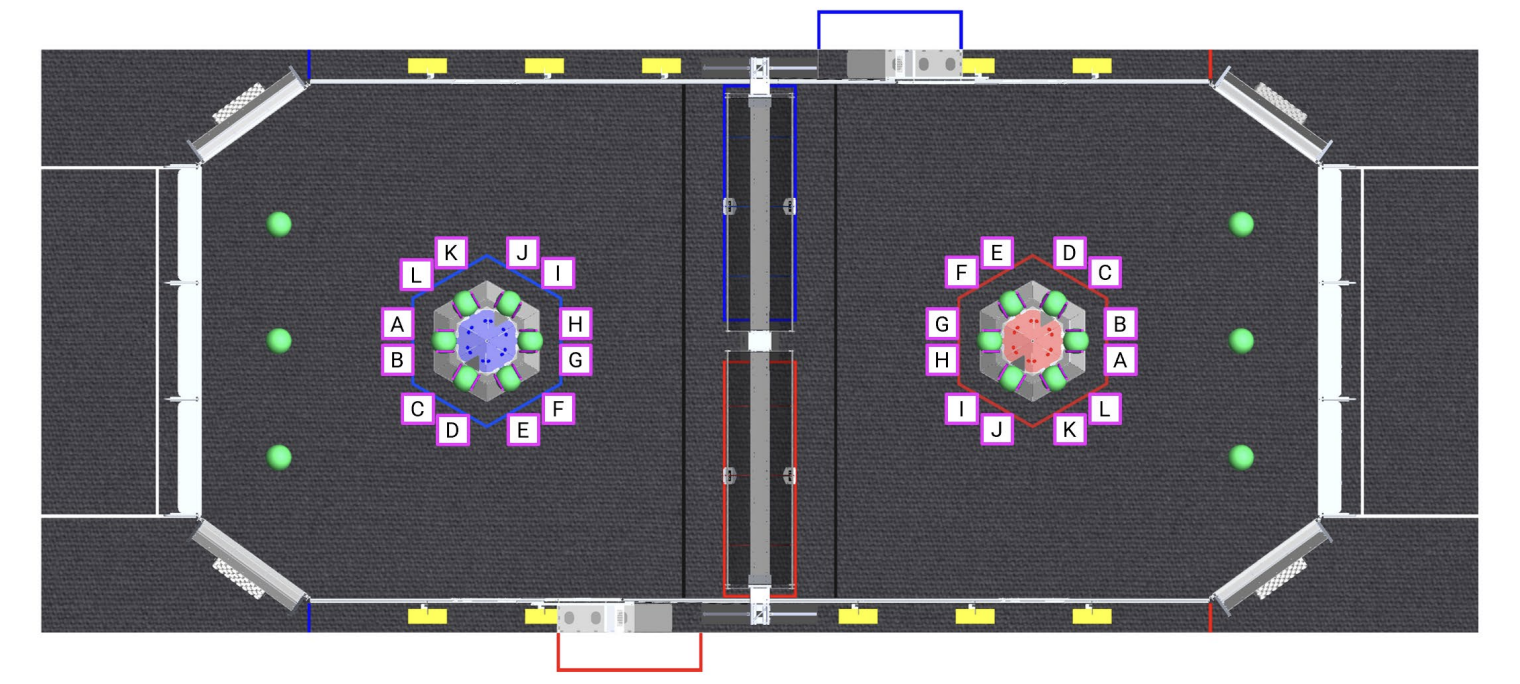
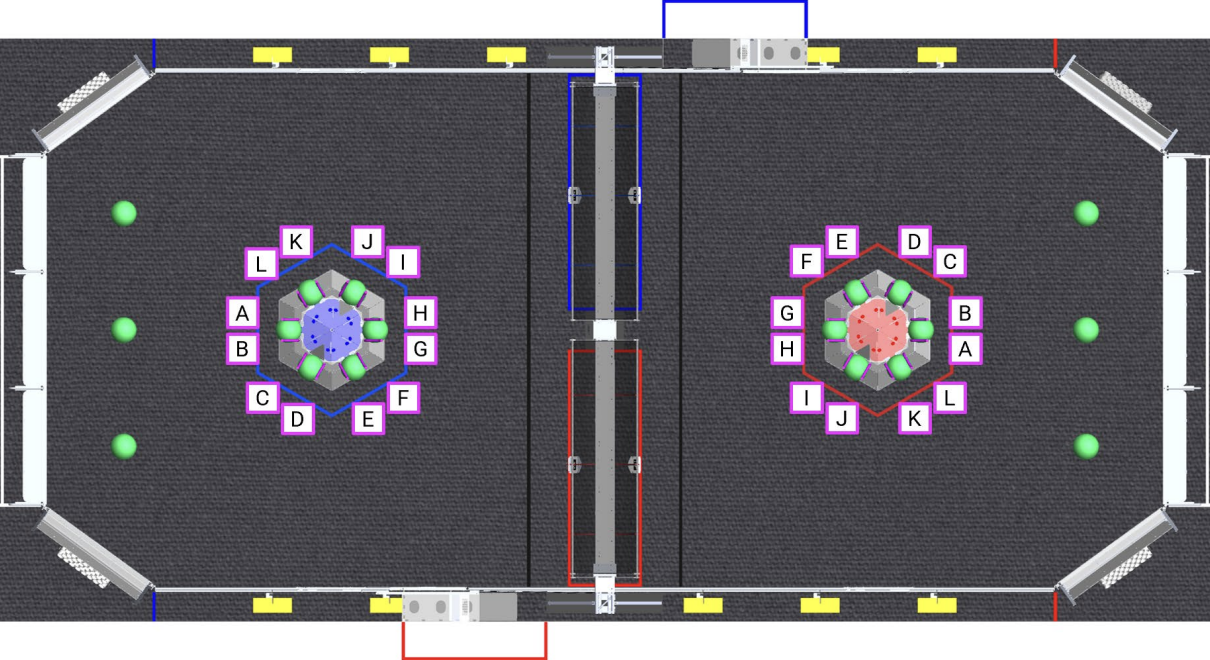
feat(assets): add gameField image

diff --git a/src/app/index.tsx b/src/app/index.tsx
@@ -1,14 +1,30 @@
 import { Link } from "expo-router";
 import React from "react";
-import { Text, View } from "react-native";
-import { useSafeAreaInsets } from "react-native-safe-area-context";
+import { Text, View , TouchableWithoutFeedback, StyleSheet, SafeAreaView, Image} from "react-native";
+
+interface TouchAreaProps {
+  imageSource: '../assets/gameField'
+  onTouch: (x:number, y:number) => void 
+};
+
 
 const index = () => {
   return (
-    <View>
-      <Text>index</Text>
-    </View>
-  )
-}
+   <SafeAreaView style={styles.container}>
+     <Image source={require('../assets/gameField.png')}
+     style={{width: 1210, height: 660}} />
+  </SafeAreaView>
+  );
+};
+
+const styles = StyleSheet.create({
+  container: {
+    flex : 1,
+    allignItems: 'center'
+
+  },
+
+});
+
 
 export default index
